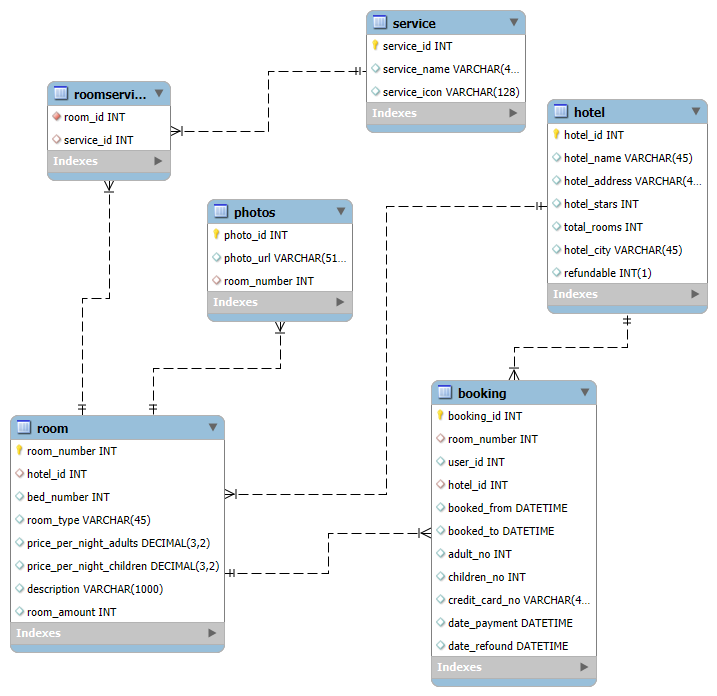
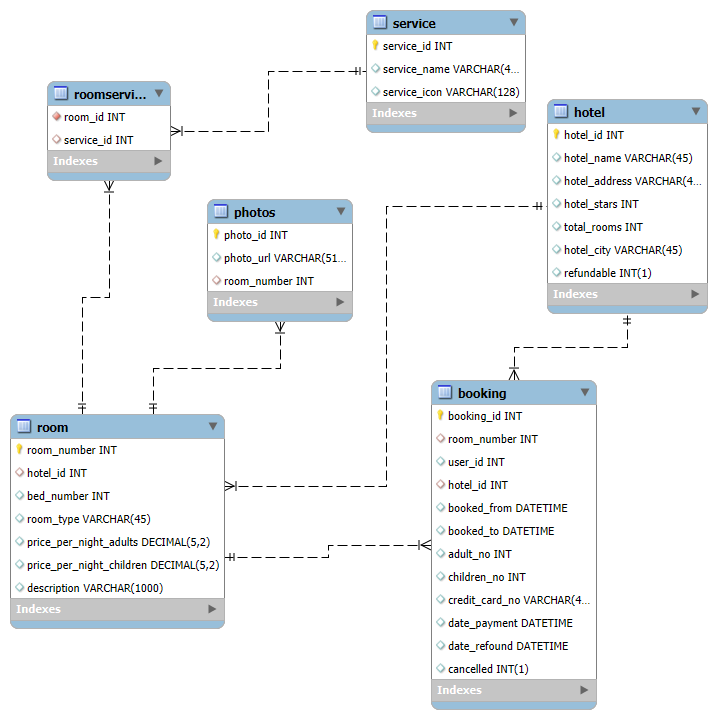
add: cancelled column to booking

diff --git a/back-end/hotel_service/src/models/hotel_model.py b/back-end/hotel_service/src/models/hotel_model.py
@@ -1,3 +1,5 @@
+from email.policy import default
+
 from sqlalchemy import Column, Integer, String, ForeignKey, DateTime, DECIMAL, Boolean
 from sqlalchemy.orm import relationship
 from config.database import Base
@@ -49,6 +51,7 @@ class Booking(Base):
     credit_card_no = Column(String(45), nullable=True)
     date_payment = Column(DateTime, nullable=True)
     date_refound = Column(DateTime, nullable=True)
+    cancelled = Column(Boolean, default=False)
 
     room = relationship('Room', back_populates='bookings')
     hotel = relationship('Hotel', back_populates='bookings')
